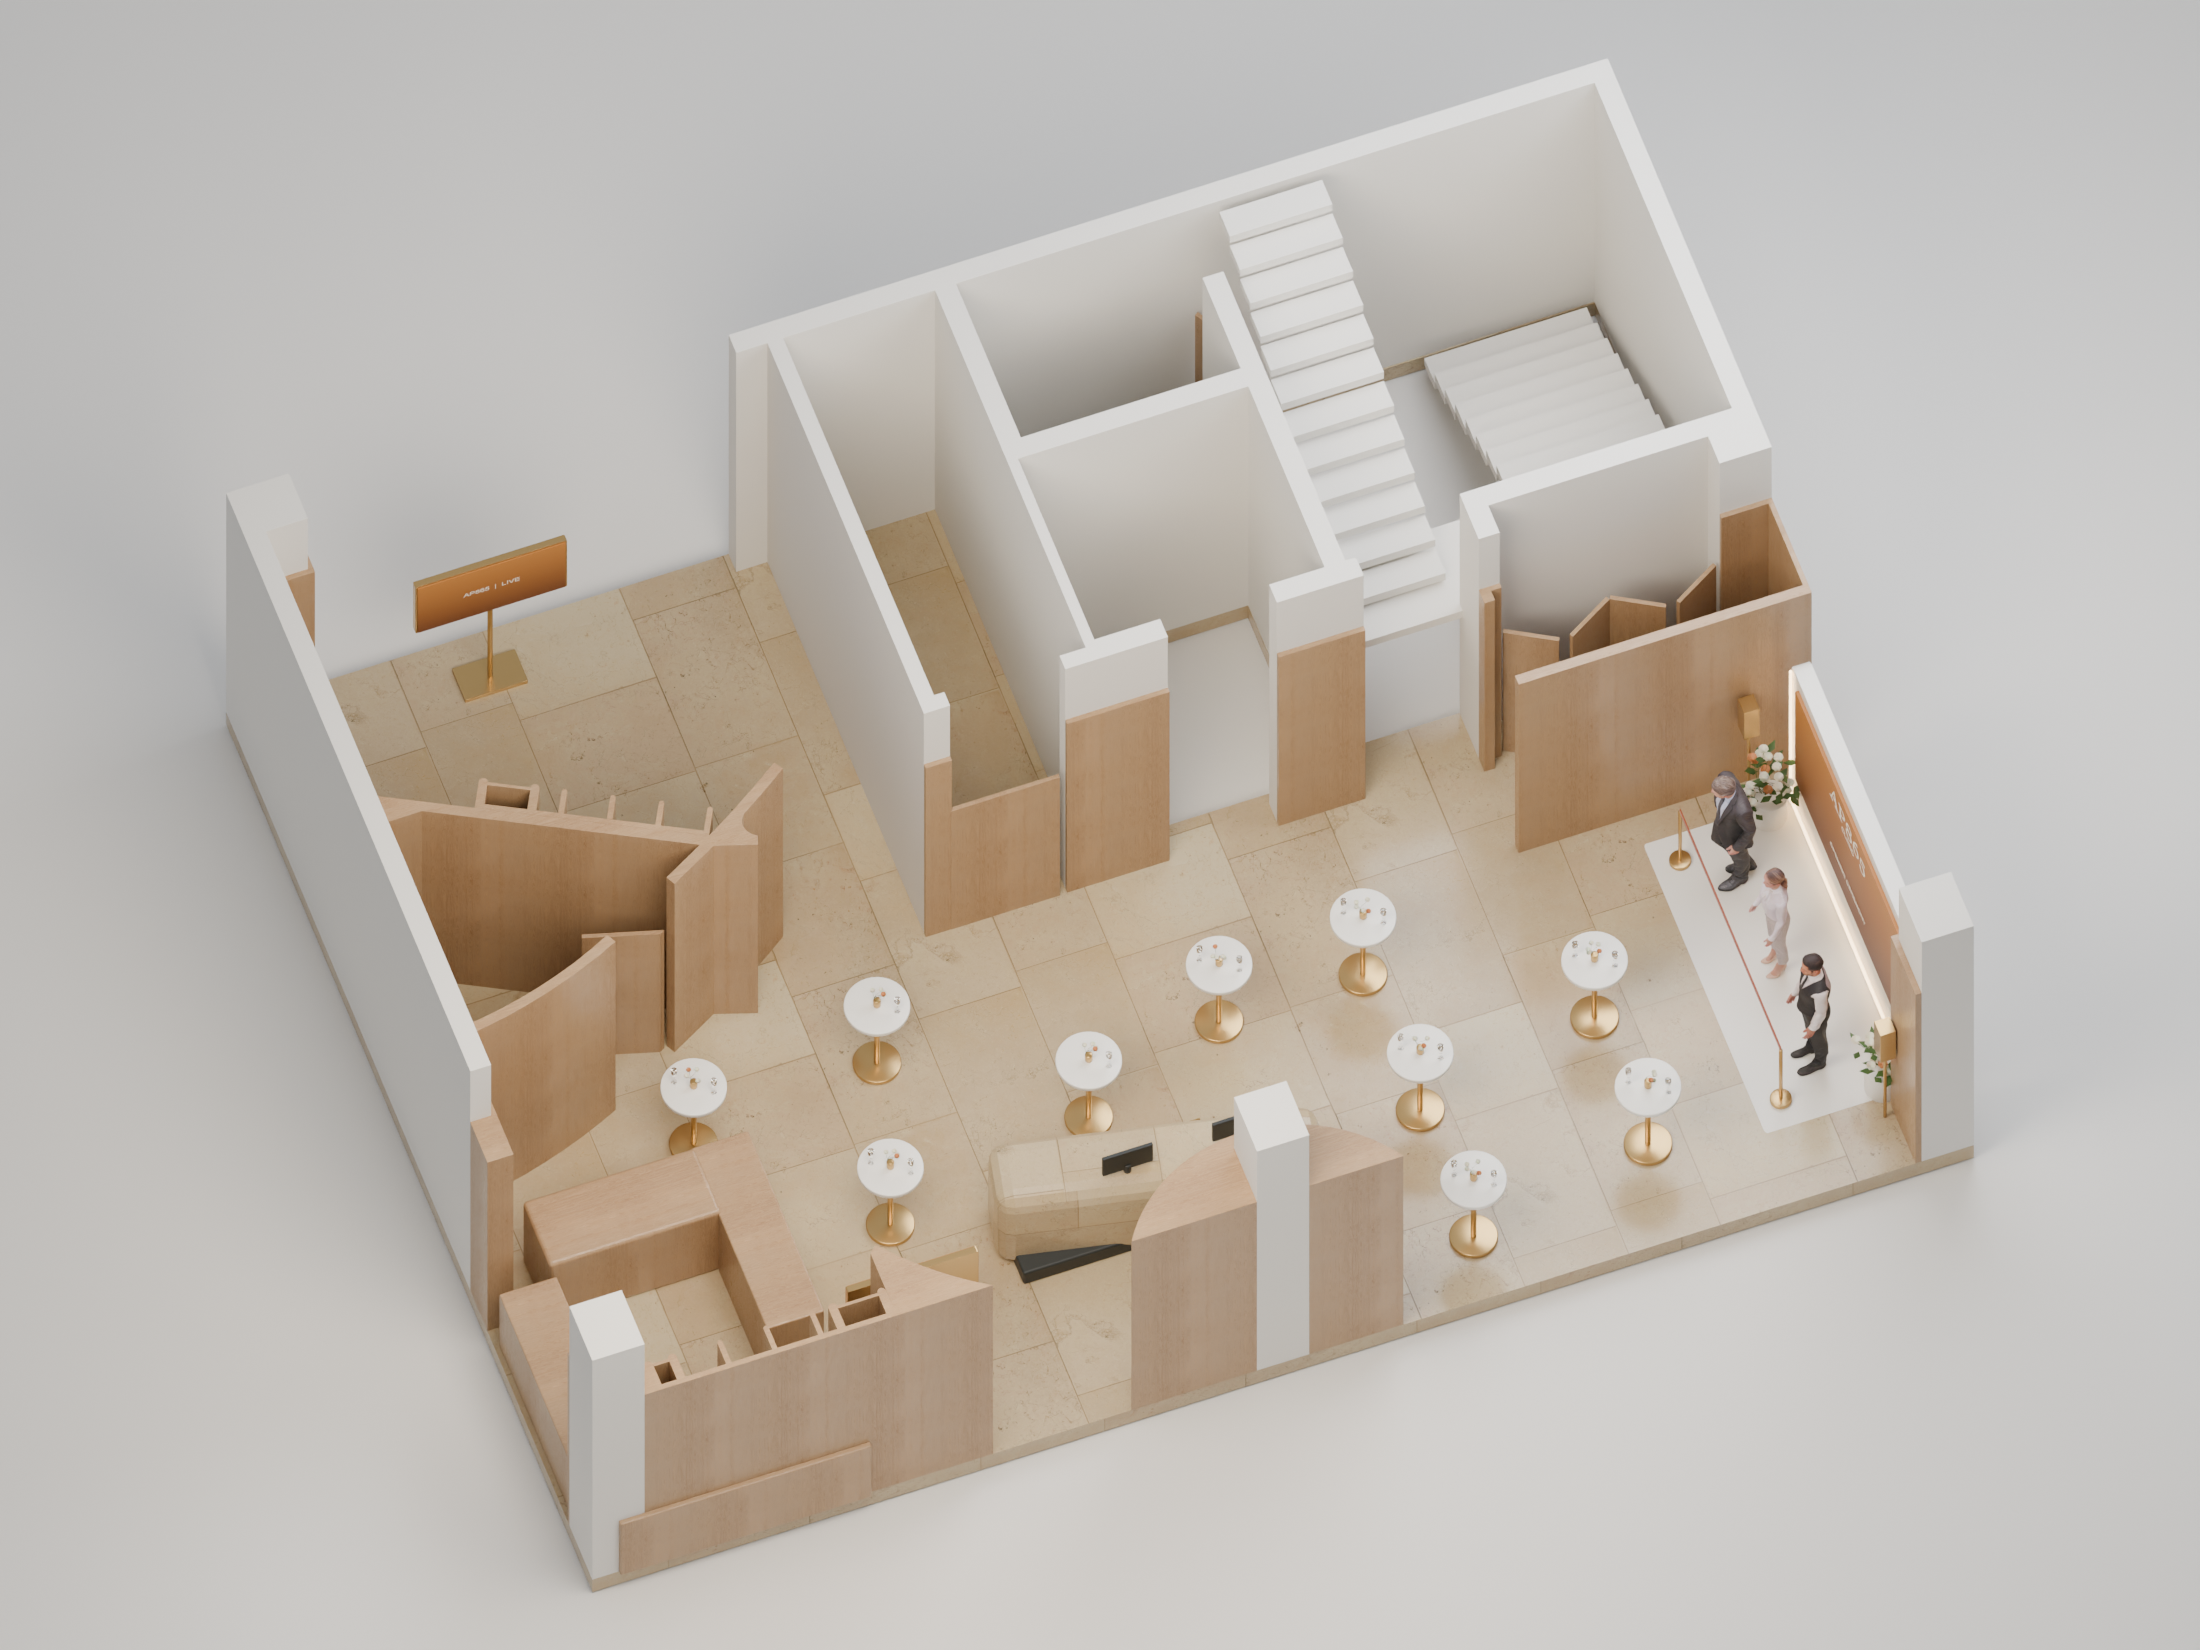
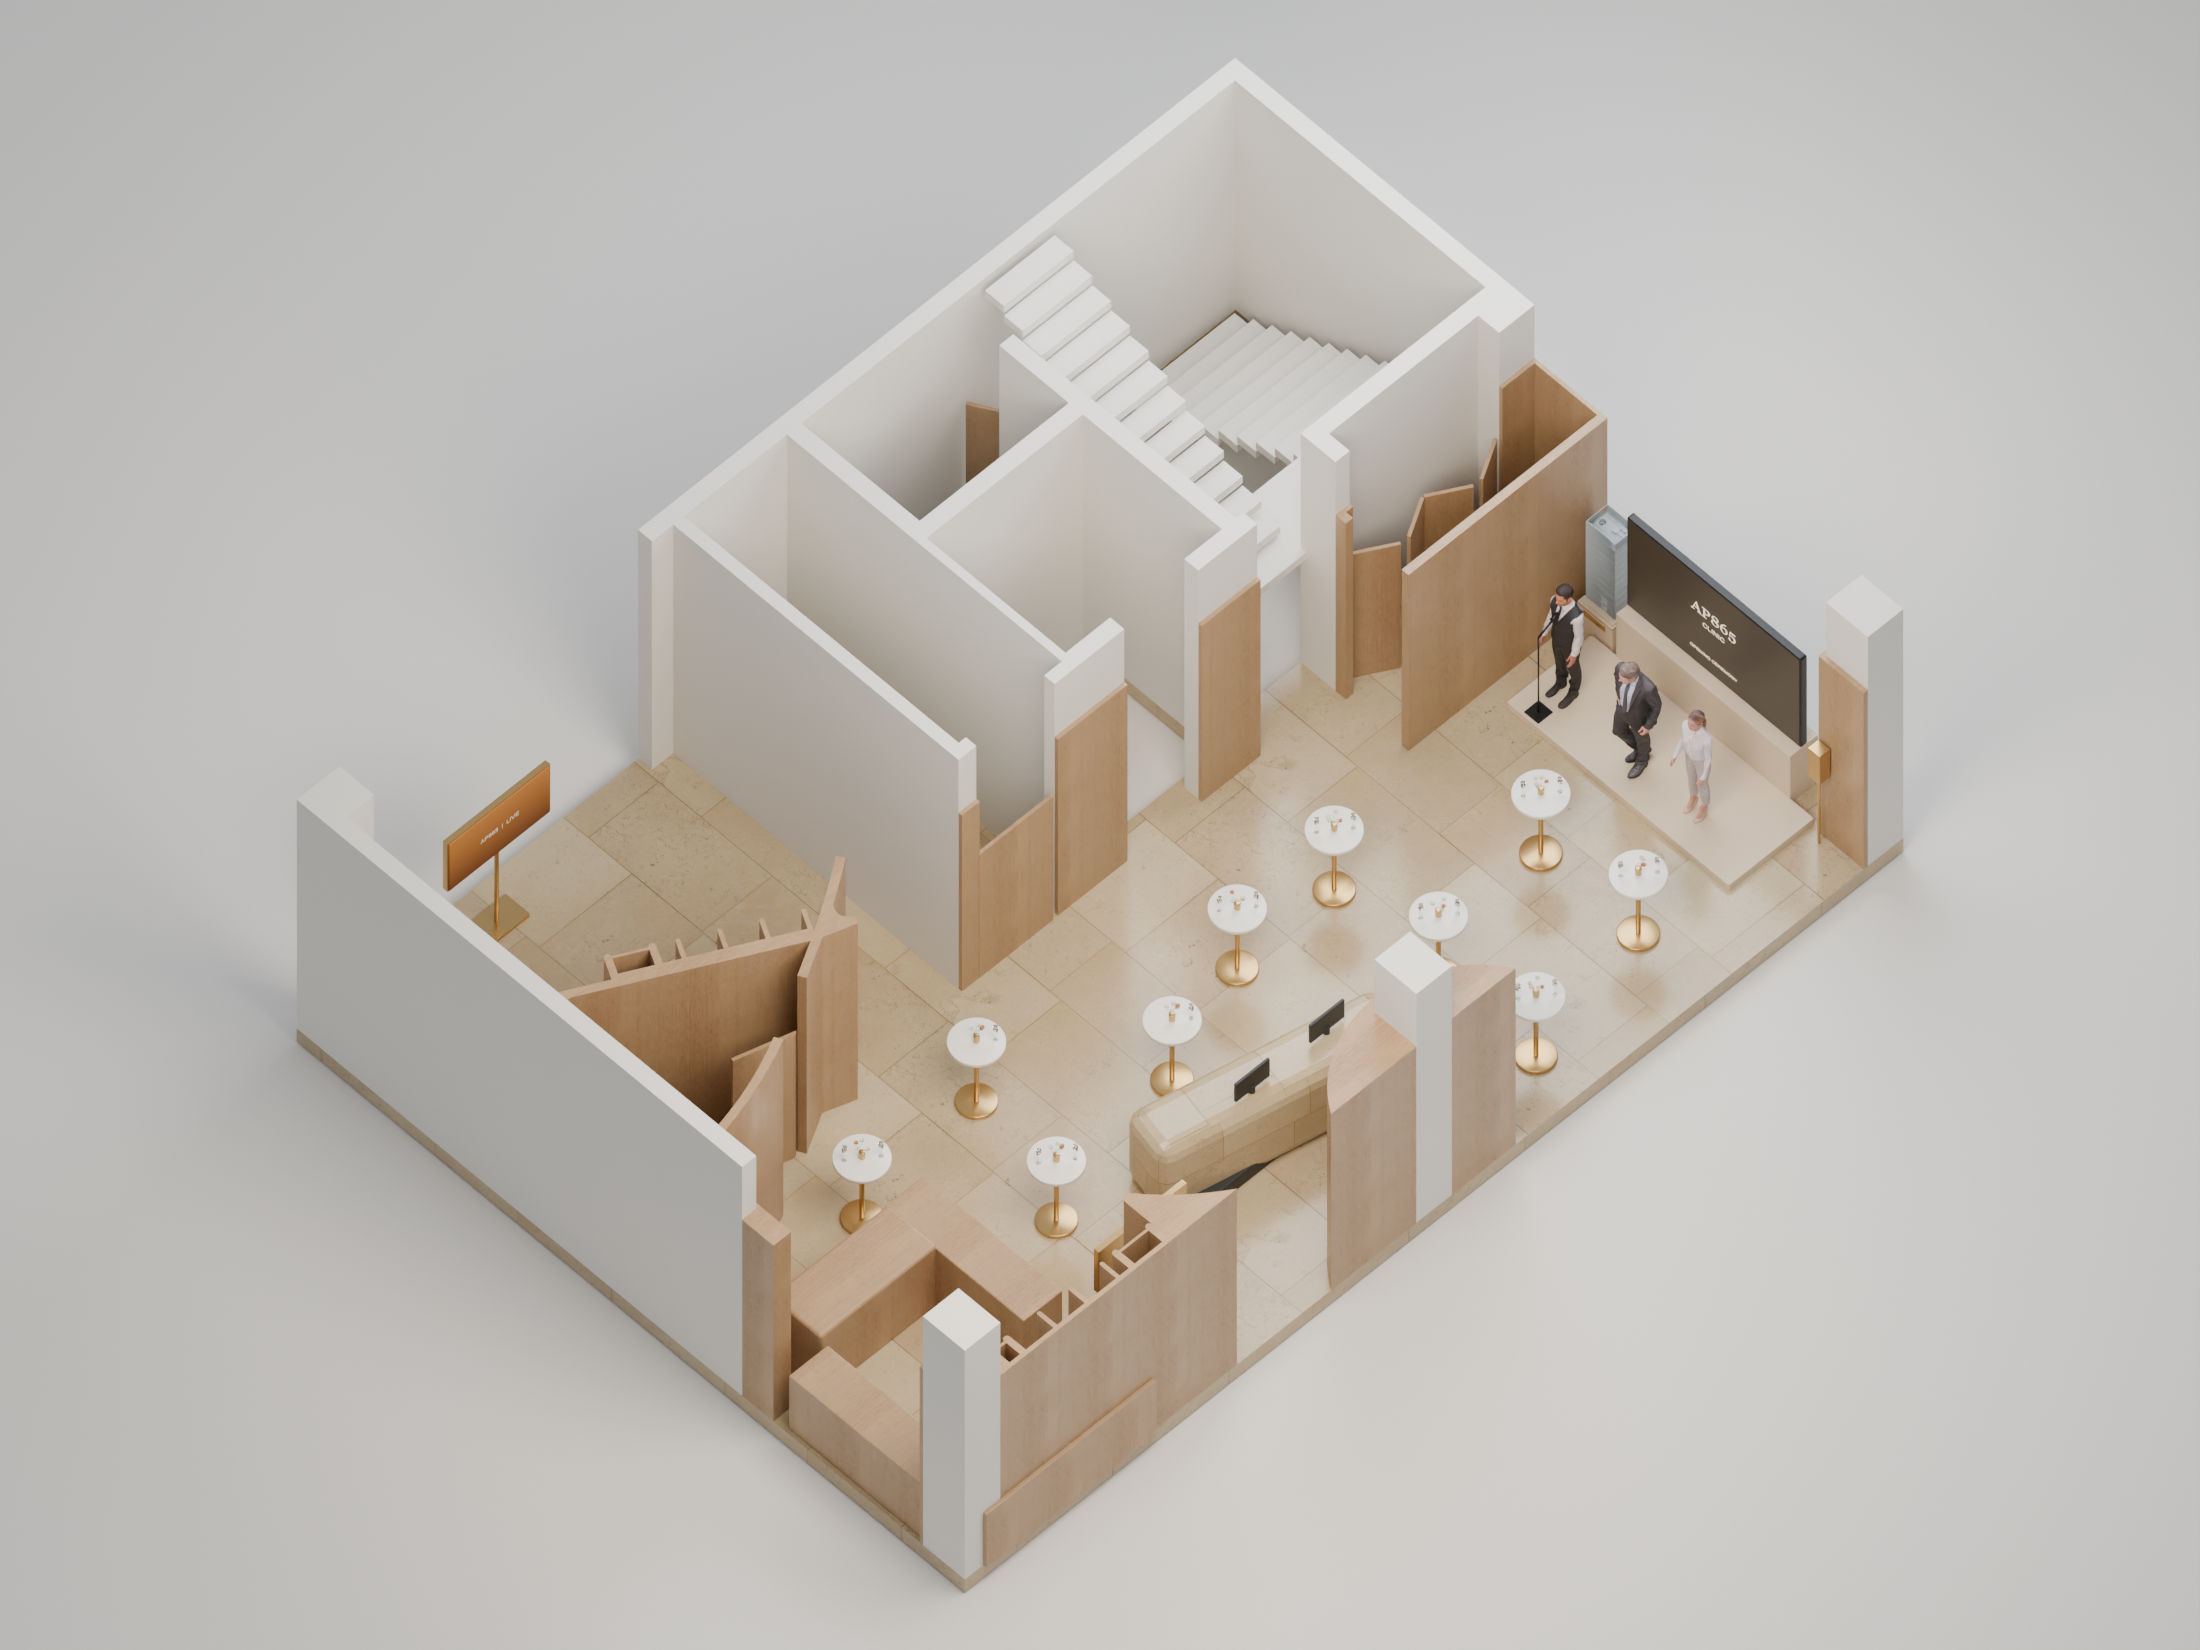
Render the current eighth-floor stage and align its ceremony markers

Changed region(s): [[0.0927, 0.0309, 0.8964, 0.9582], [0.1545, 0.6491, 0.1855, 0.68], [0.1236, 0.6182, 0.1545, 0.6491]]

diff --git a/public/ceremony/index.html b/public/ceremony/index.html
@@ -12,4 +12,4 @@
 <main class="wrap">
 <div id="detail" tabindex="-1"></div><datalist id="personOptions"></datalist></main>
 <footer class="wrap"><span>AP865 CLINIC</span><div class="footer-tools"><button type="button" data-export>배치표 CSV</button><a href="https://invite.ap865.com/" target="_blank" rel="noopener">공식 초대장</a></div></footer>
-<script src="program.js?v=lobby-render-1125"></script><script src="spaces.js?v=lobby-render-1125"></script><script src="layout.js?v=continuous-1125"></script><script src="furniture.js?v=blender-floors-1125"></script><script src="map-edit.js?v=continuous-1125"></script><script src="care.js"></script><script src="people.js?v=continuous-1125"></script><script src="memo.js?v=continuous-1125"></script><script src="app.js?v=tour-leads-1125"></script><script src="shared.js?v=phase-memo-1125"></script></body></html>
+<script src="program.js?v=lobby-render-1125"></script><script src="spaces.js?v=lobby-render-1125"></script><script src="layout.js?v=1125-stage"></script><script src="furniture.js?v=blender-floors-1125"></script><script src="map-edit.js?v=continuous-1125"></script><script src="care.js"></script><script src="people.js?v=continuous-1125"></script><script src="memo.js?v=continuous-1125"></script><script src="app.js?v=1125-stage"></script><script src="shared.js?v=phase-memo-1125"></script></body></html>

diff --git a/public/ceremony/app.js b/public/ceremony/app.js
@@ -1,7 +1,11 @@
 'use strict';
 const $ = id => document.getElementById(id);
 const esc = value => String(value ?? '').replace(/[&<>"']/g,c=>({'&':'&amp;','<':'&lt;','>':'&gt;','"':'&quot;',"'":'&#39;'}[c]));
-const fileURL = name => typeof embeddedMedia === 'undefined' ? 'media/'+encodeURIComponent(name) : embeddedMedia[name];
+const loungeRenderFiles=new Set(['render-model-8.webp','blender-plan-8.webp']);
+function fileURL(name){
+  if(typeof embeddedMedia!=='undefined')return embeddedMedia[name];
+  return 'media/'+encodeURIComponent(name)+(loungeRenderFiles.has(name)?'?v=1125-stage':'');
+}
 const state={tasks:{},decisions:{},staff:{},extra:{},positions:{},people:{},leads:{}};
 function save(){renderPeople();if(window.guideSync)window.guideSync.record();}
 const phases=Object.fromEntries(program.map(p=>[p.id,p]));

diff --git a/public/ceremony/layout.js b/public/ceremony/layout.js
@@ -16,7 +16,7 @@ const seatOffsets=[fourPlaces,fourPlaces,fourPlaces,fourPlaces,
   [[-32,-20],[8,-33],[34,0],[12,31],[-29,23]],
   [[-32,-18],[1,-35],[32,-10],[15,29],[-24,22]],
   [[-28,-20],[3,-33],[32,0],[2,32],[-33,13]]];
-const stagePlaces=[['mc',5.53,-1.4062],['director',5.53,-2.4262],['stage-guest',5.53,-3.4462]];
+const stagePlaces=[['mc',5.3651,-1.1621],['director',5.26,-2.2762],['stage-guest',5.26,-3.1483]];
 const guestPlaces=seatOffsets.flatMap((points,i)=>points.map(([dx,dy],j)=>({
   row:'T'+String(i+1).padStart(2,'0')+'-'+(j+1),label:'T'+String(i+1).padStart(2,'0')+' · '+(j+1)+'번',
   short:String(j+1),...planPoint(tableCenters[i][0]+dx,tableCenters[i][1]+dy)
